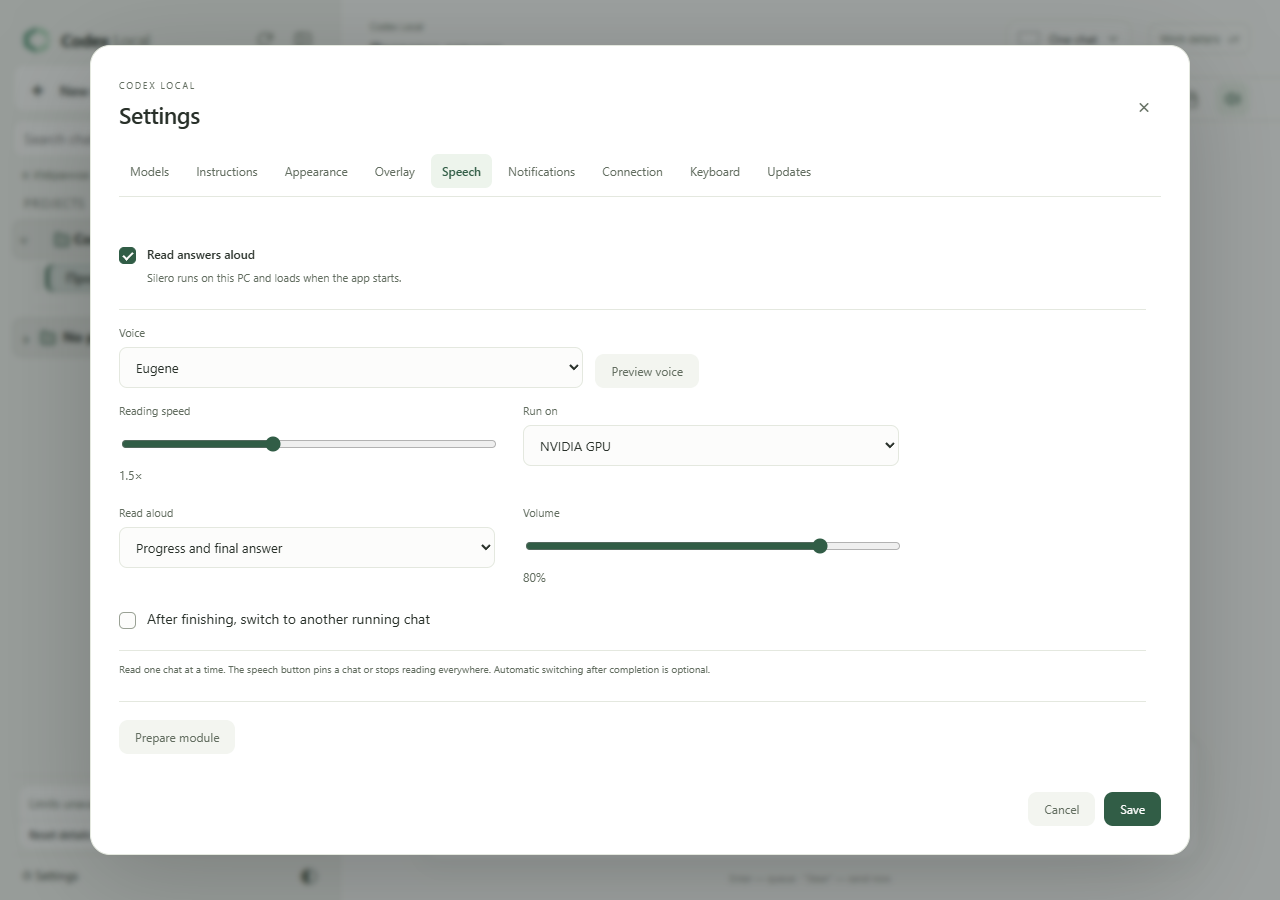
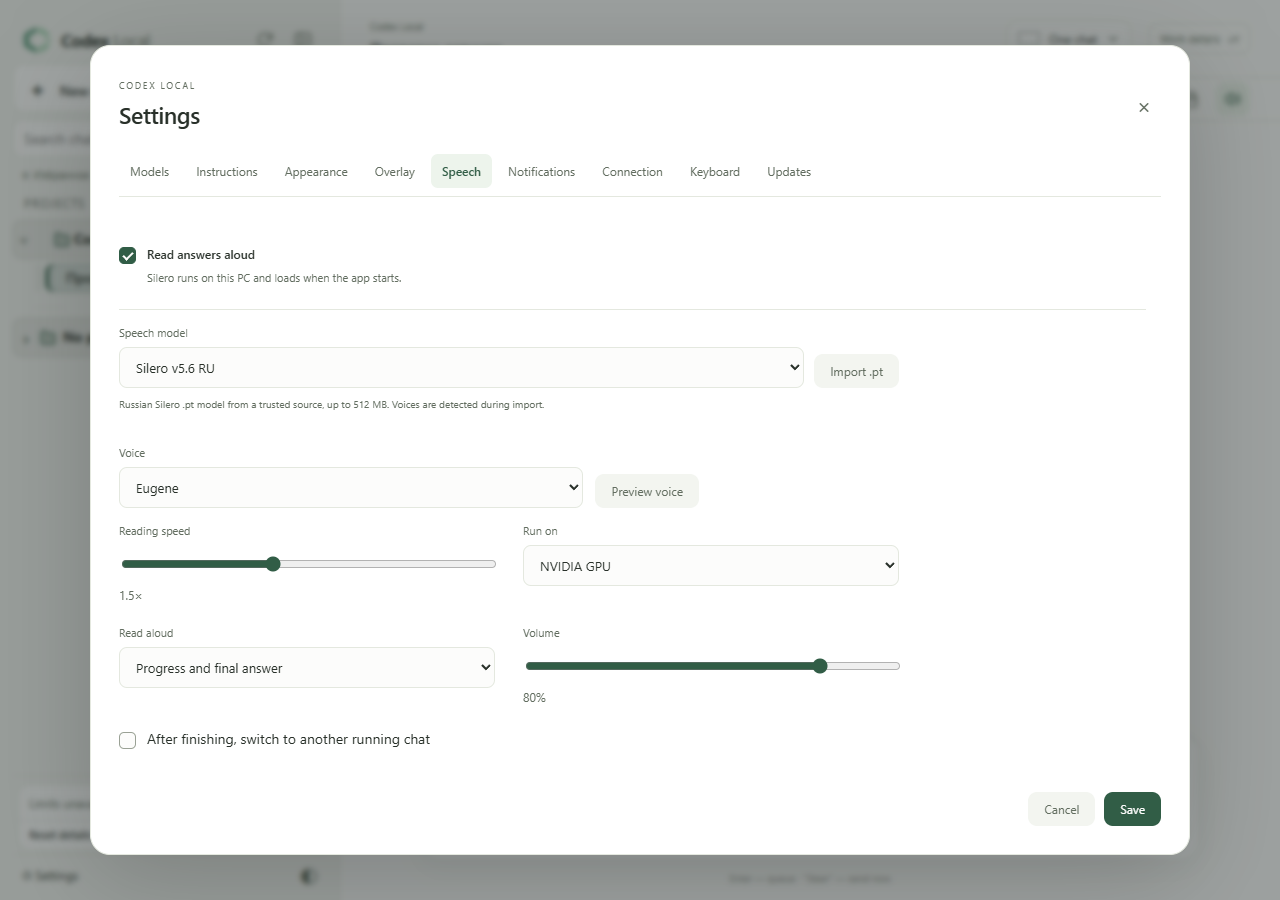
Document 0.8.91 custom Silero models and speech settings [skip ci]

diff --git a/README.en.md b/README.en.md
@@ -3,7 +3,7 @@
   <h1>Codex Local</h1>
   <p>Your Codex — on your PC, in a browser and on your phone.</p>
   <p><strong>Windows x64 · local panel · web access and PWA</strong></p>
-  <p><a href="https://github.com/DenisG1302/codex-local/releases/tag/installer-v0.8.90"><strong>Download installer</strong></a> · <a href="https://github.com/DenisG1302/codex-local/releases">Release notes</a> · <a href="README.md">Русский</a></p>
+  <p><a href="https://github.com/DenisG1302/codex-local/releases/tag/installer-v0.8.91"><strong>Download installer</strong></a> · <a href="https://github.com/DenisG1302/codex-local/releases">Release notes</a> · <a href="README.md">Русский</a></p>
 </div>
 
 ---
@@ -28,7 +28,7 @@ The interface is available in English and Russian. Choose your language in Setti
 | Resets and forecasts | Available resets with confirmation, plus announcements of possible resets from Codex Resets |
 | Multiple chats at once | Up to five side-by-side panes, or Focus: one large chat with cards for active and unread tasks |
 | Overlay | Follow progress above other apps and switch between chats |
-| Read answers aloud | Five Russian Silero voices, speech for the selected chat and optional automatic chat switching |
+| Read answers aloud | Russian Silero voices, custom models and speech for the selected chat |
 | Replies to messages | Reply to a message or selected passage without copying the text |
 | Forwarding between chats | Prepare a message with files and photos in another chat, add a comment and send when ready |
 | Quick commands | Send a saved reply with one click; add your own choices and remove ones you do not need |
@@ -64,9 +64,9 @@ In Settings → Overlay, choose the appearance, size, position and opacity; Test
 
 ## Listen to answers
 
-Download Silero in Settings → Speech and choose one of five Russian voices, reading speed from 0.5× to 3× in 0.5× steps, volume, and CPU or NVIDIA GPU processing. “Preview voice” synthesizes a sample with the selected voice, speed and volume. Listen to final answers or include progress updates; enabled speech loads when the app starts. Download the module again when switching to GPU.
+Download Silero in Settings → Speech to choose one of five standard Russian voices or import a compatible .pt model with your own voices. Set speed from 0.5× to 3× in 0.5× steps, volume, and CPU or NVIDIA GPU processing; “Preview voice” uses the selected voice, speed and volume. Enabled speech loads when the app starts. Download the module again when switching to GPU.
 
-The speech button in a chat or overlay pins that chat or stops all reading. You can disable automatic switching to another working chat, or use “Read aloud” in a message menu to hear one answer. Available in the Windows app; the model downloads separately from the installer.
+Listen to final answers or include progress updates; tables are skipped. The speech button in a chat or overlay pins that chat or stops all reading. You can disable automatic switching to another working chat, or use “Read aloud” in a message menu to hear one answer. Available in the Windows app; the model downloads separately from the installer.
 
 ![Speech settings: voice, rate, device and automatic chat switching](assets/screenshots/en/speech-settings.png)
 
